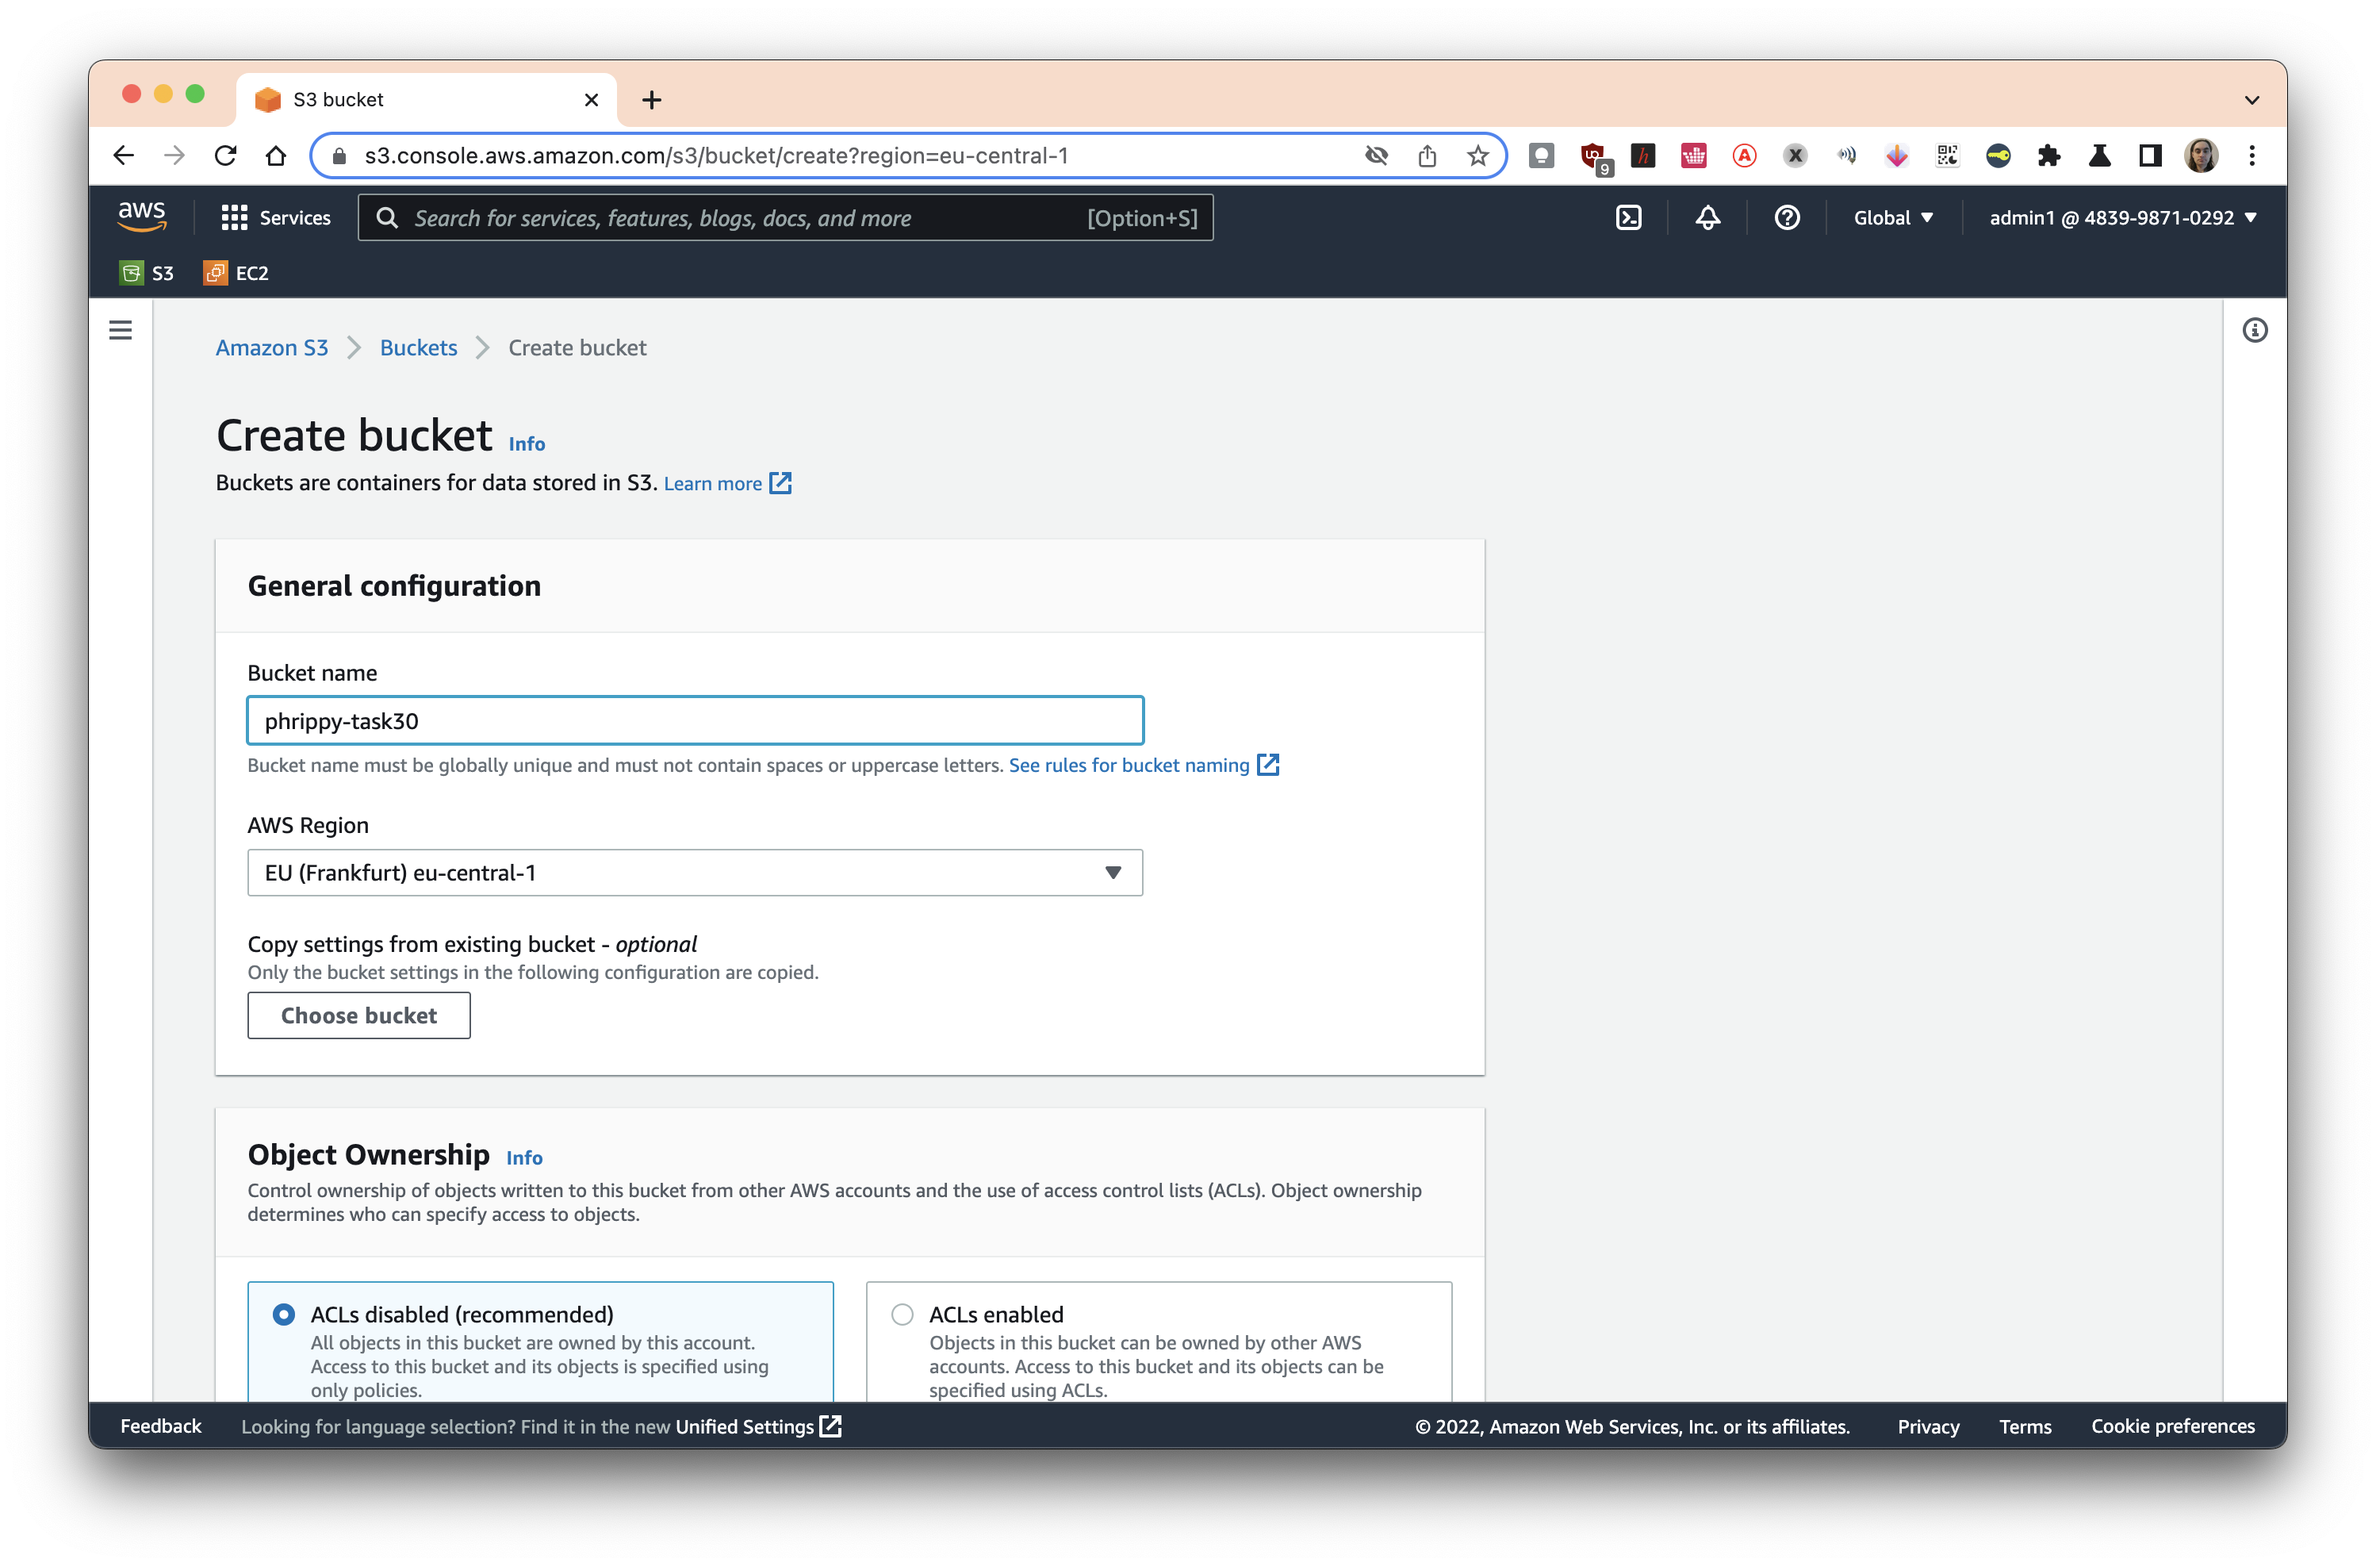
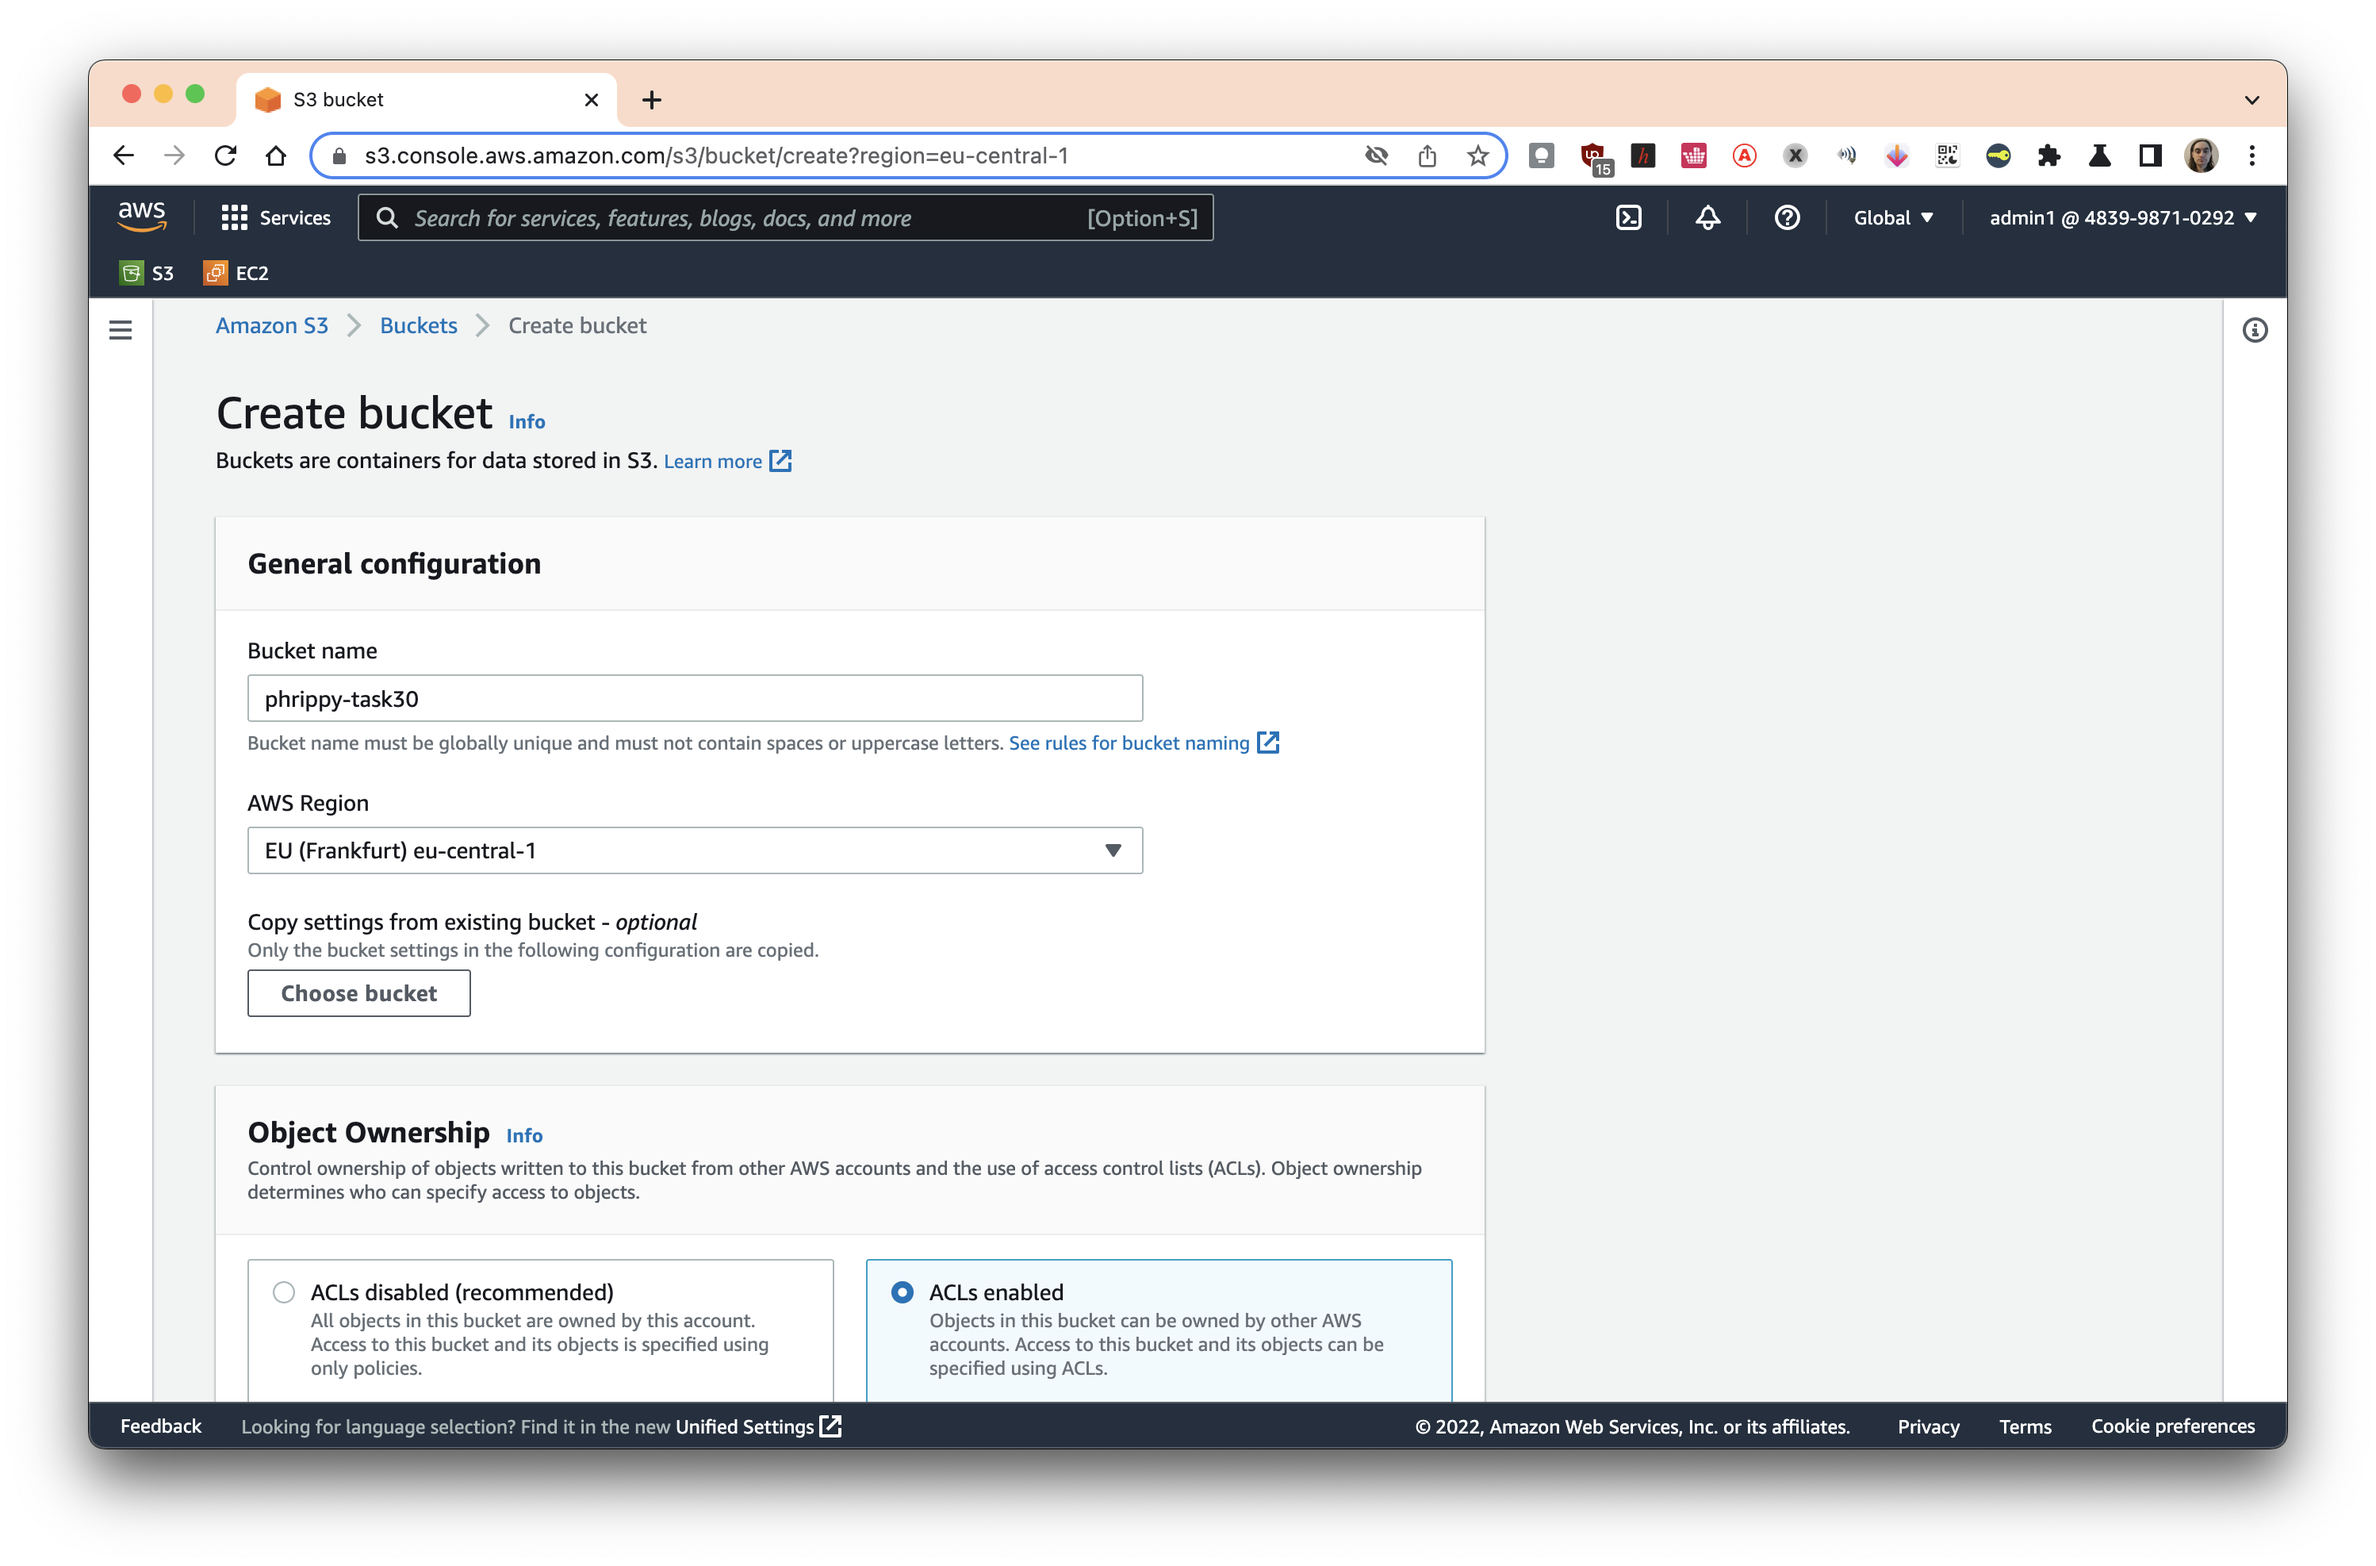
upd

diff --git a/lesson30/lesson30.md b/lesson30/lesson30.md
@@ -28,7 +28,7 @@
 
 # Створюємо S3
 
-Знаходимо через пошук розділ `S3` і натискаємо кнопку `Create S3 bucket`. Вводимо унікальний Bucket name
+Знаходимо через пошук розділ `S3` і натискаємо кнопку `Create S3 bucket`. Вводимо унікальний Bucket name, вмикаємо ACL
 
 ![Створення S3 bucket](s3-create.png)
 
